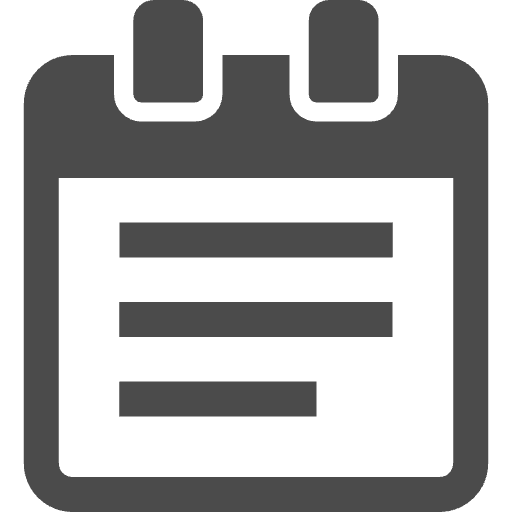
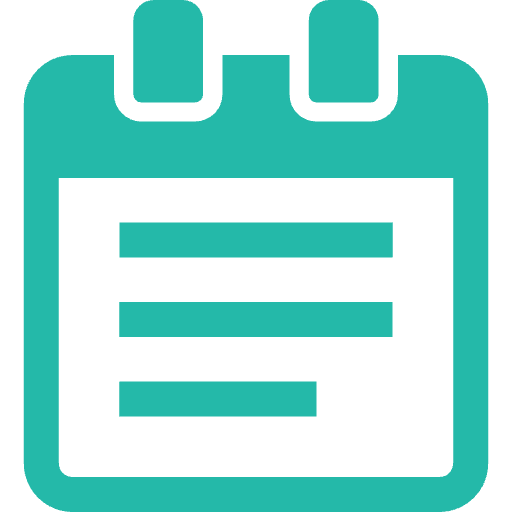
[fix][update]
カラーアイコンへの差し替え
拡張機能の説明文修正
ヘッダー要素の修正

diff --git a/src/config/parameter.ts b/src/config/parameter.ts
@@ -5,7 +5,7 @@ export const MESSAGE_TEXTS = {
 }
 
 export const PAGE_TEXTS = {
-  header: "Title & URL Capture",
+  header: "Title & URL Capturer",
   input: {
     placeholder: "File name (no extension)"
   },
